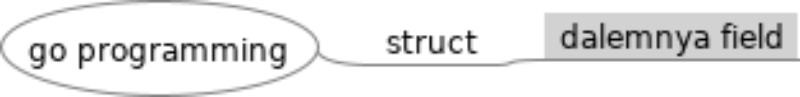
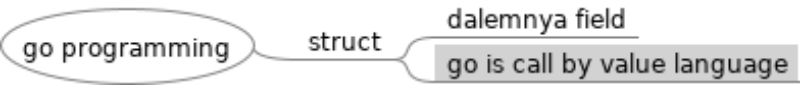
add strcut embedding

diff --git a/ch4/struct.go b/ch4/struct.go
@@ -2,27 +2,28 @@ package main
 
 import "fmt"
 
-type Employee struct{
-	name string
-	id int
+type Employee struct {
+	name     string
+	id       int
 	position string
 }
 
-func (e Employee) string() string{
-	return fmt.Sprint("%s :: %s :: %d ", e.name, e.position,
-	 e.id)
+func (e Employee) String() string {
+	return fmt.Sprintf("%s :: %s :: %d ", e.name, e.position,
+		e.id)
 }
 
-func main(){
-	var k = Employee{name:"inu", 
-		id:1,position:"entry"}
+func main() {
+	var k = Employee{name: "inu",
+		id: 1, position: "entry"}
 	fmt.Println(k)
 	var pos = &k.position
 	*pos = "senior CEO"
 	fmt.Println(k)
 	var j = &k
-	fmt.Println("with a pointer ",j)
+	fmt.Println("with a pointer ", j)
 	fmt.Println("try to change the value")
 	j.name = "ubahan inu"
 	fmt.Println("habis di ubah", j)
+
 }

diff --git a/go programming.mm b/go programming.mm
@@ -3,6 +3,7 @@
 <node CREATED="1650023894298" ID="ID_1098023256" MODIFIED="1650023900904" TEXT="go programming">
 <node CREATED="1650023901250" ID="ID_1588879175" MODIFIED="1650023904149" POSITION="right" TEXT="struct">
 <node CREATED="1650023904423" ID="ID_1426646535" MODIFIED="1650023908438" TEXT="dalemnya field"/>
+<node CREATED="1650025499725" ID="ID_1348992875" MODIFIED="1650025506278" TEXT="go is call by value language"/>
 </node>
 </node>
 </map>

diff --git a/ch4/struct_embedding.go b/ch4/struct_embedding.go
@@ -1,0 +1,28 @@
+package main
+
+import "fmt"
+
+type Point struct {
+	X, Y int
+}
+
+type Wheels struct {
+	Point
+	Radius int
+}
+
+func main() {
+	var w Wheels
+	w.X = 100
+	w.Y = 90
+	w.Radius = 88
+
+	fmt.Println("hahha ", w)
+
+	var k = Wheels{
+		Point:  Point{4, 5},
+		Radius: 90,
+	}
+
+	fmt.Println(k)
+}

diff --git a/ch4/README.md b/ch4/README.md
@@ -6,4 +6,11 @@
 ## slice
 - an array without a size
 - contains: a pointer, a size , a capacity
-- 
+
+## struct
+struct embeding:
+- confinient shortcut
+- Optional in dot type
+- struct literal, harus di isi barengan semua
+- composition, parent got all
+
